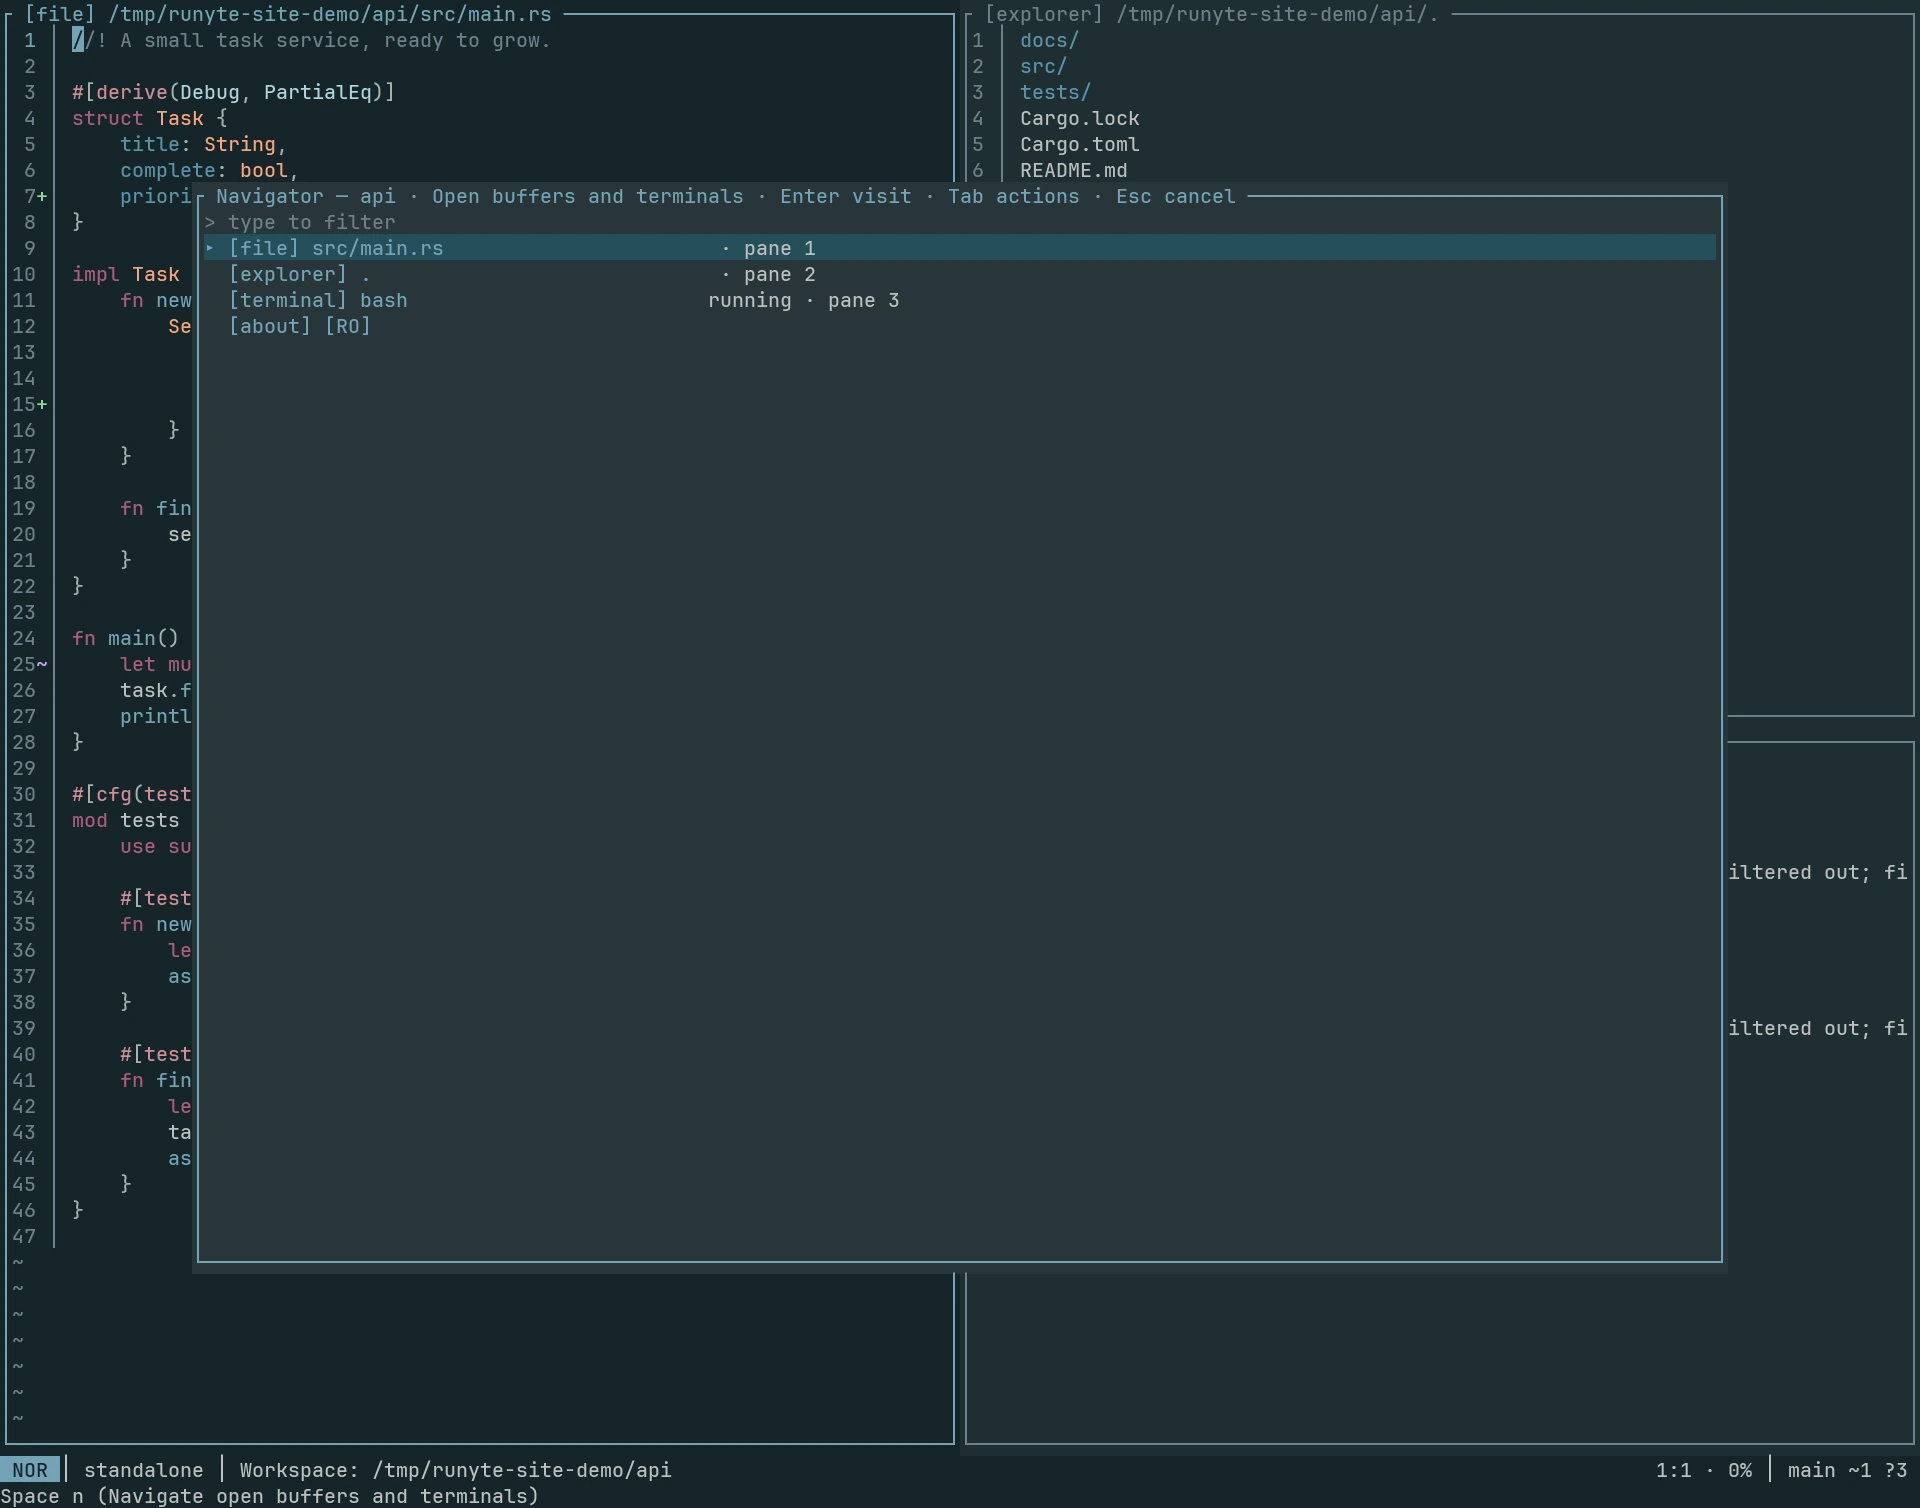
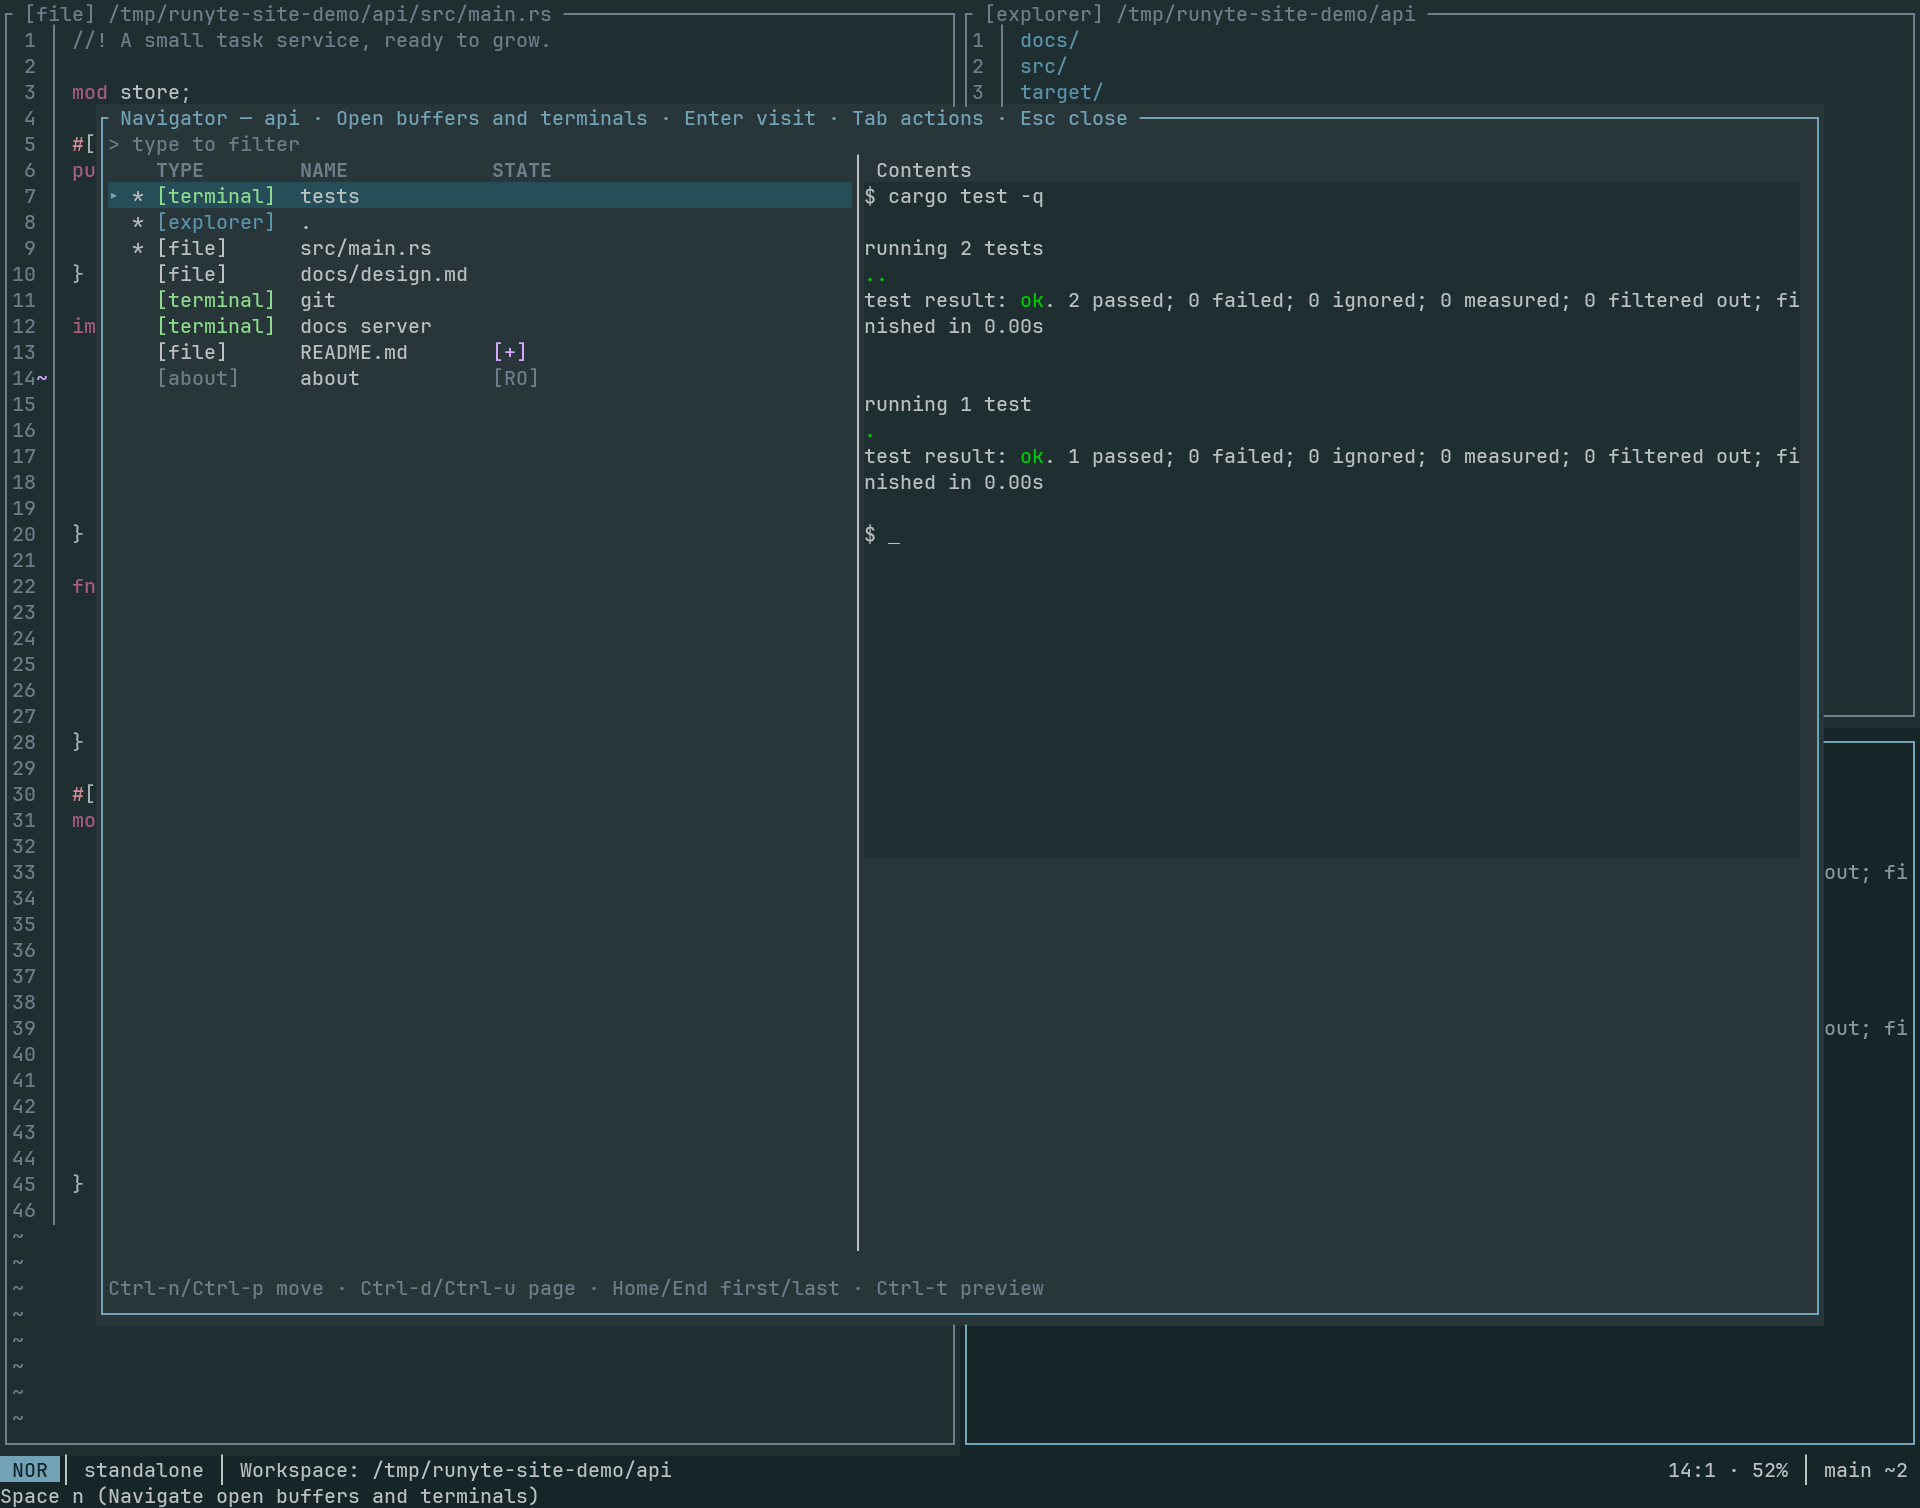
Recapture the Navigator screenshot for 0.3.3
The 0.3.3 Navigator lists TYPE, NAME and STATE columns beside a live
preview. The new capture shows files, the workspace explorer, About and
three running terminals, with the selected terminal's test output in the
preview. demos/navigator records the scene so it can be captured again.

diff --git a/demos/navigator/navigator.py b/demos/navigator/navigator.py
@@ -1,0 +1,192 @@
+#!/usr/bin/env python3
+# SPDX-License-Identifier: MPL-2.0
+"""Capture the Navigator listing files, an explorer, terminals and About."""
+import argparse
+import importlib.util
+import os
+from pathlib import Path
+import subprocess
+
+CARGO_TOML = '[package]\nname = "api"\nversion = "0.1.0"\nedition = "2021"\n\n[dependencies]\n'
+README = '# api\n\nA small task service, ready to grow.\n\nRun the tests with `cargo test`.\n'
+DESIGN = '# Design\n\nTasks are kept in memory and sorted by priority.\n'
+STORE = '''use crate::Task;
+
+pub struct Store {
+    tasks: Vec<Task>,
+}
+
+impl Store {
+    pub fn new() -> Self {
+        Self { tasks: Vec::new() }
+    }
+
+    pub fn add(&mut self, task: Task) {
+        self.tasks.push(task);
+        self.tasks.sort_by_key(|task| std::cmp::Reverse(task.priority));
+    }
+
+    pub fn pending(&self) -> impl Iterator<Item = &Task> {
+        self.tasks.iter().filter(|task| !task.complete)
+    }
+}
+'''
+MAIN = '''//! A small task service, ready to grow.
+
+mod store;
+
+#[derive(Debug, PartialEq)]
+pub struct Task {
+    pub title: String,
+    pub complete: bool,
+    pub priority: u8,
+}
+
+impl Task {
+    pub fn new(title: &str) -> Self {
+        Self { title: title.to_owned(), complete: false, priority: 0 }
+    }
+
+    pub fn finish(&mut self) {
+        self.complete = true;
+    }
+}
+
+fn main() {
+    let mut store = store::Store::new();
+    store.add(Task::new("Write the README"));
+    for task in store.pending() {
+        println!("{}", task.title);
+    }
+}
+
+#[cfg(test)]
+mod tests {
+    use super::*;
+
+    #[test]
+    fn new_task_is_open() {
+        assert!(!Task::new("Plan").complete);
+    }
+
+    #[test]
+    fn finish_marks_complete() {
+        let mut task = Task::new("Ship");
+        task.finish();
+        assert!(task.complete);
+    }
+}
+'''
+
+# Ctrl-\ returns control from a terminal child to Runyte.
+LEAVE_TERMINAL = [{'op': 'key', 'text': '\x1c'}, {'op': 'wait', 'wait': 0.3}]
+STEPS = [
+    {'op': 'wait', 'wait': 1.5},
+    {'op': 'command', 'text': 'about'},
+    # An unsaved edit shows the [+] state flag.
+    {'op': 'command', 'text': 'open README.md'},
+    {'op': 'key', 'text': 'ge'},
+    {'op': 'key', 'text': 'oTODO: document the HTTP endpoints.'},
+    {'op': 'wait', 'wait': 0.2},
+    {'op': 'key', 'text': '\x1b'},
+    {'op': 'wait', 'wait': 0.3},
+    {'op': 'command', 'text': 'open docs/design.md'},
+    # Two terminals that keep running after Space t q hides them.
+    {'op': 'command', 'text': 'terminal python3 -m http.server 8000 --bind 127.0.0.1 --directory docs'},
+    {'op': 'expect', 'text': 'Serving HTTP'},
+    *LEAVE_TERMINAL,
+    {'op': 'command', 'text': 'terminal-rename docs server'},
+    {'op': 'key', 'text': ' tq'},
+    {'op': 'command', 'text': 'terminal bash --norc --noprofile'},
+    {'op': 'wait', 'wait': 0.5},
+    {'op': 'key', 'text': 'git log --oneline\r'},
+    *LEAVE_TERMINAL,
+    {'op': 'command', 'text': 'terminal-rename git'},
+    {'op': 'key', 'text': ' tq'},
+    # Visible layout: file left, explorer top right, test terminal below it.
+    {'op': 'command', 'text': 'open src/main.rs'},
+    {'op': 'key', 'text': 'gg'},
+    {'op': 'key', 'text': '\x17v'},
+    {'op': 'key', 'text': ' E'},
+    {'op': 'key', 'text': '\x17s'},
+    {'op': 'command', 'text': 'terminal bash --norc --noprofile'},
+    {'op': 'wait', 'wait': 0.5},
+    {'op': 'key', 'text': 'cargo test -q\r'},
+    {'op': 'expect', 'text': 'test result', 'timeout': 60},
+    {'op': 'wait', 'wait': 0.5},
+    *LEAVE_TERMINAL,
+    {'op': 'command', 'text': 'terminal-rename tests'},
+    # Running the tests invalidates Git status; show a settled status line.
+    {'op': 'command', 'text': 'git-refresh'},
+    {'op': 'wait', 'wait': 2},
+    {'op': 'key', 'text': ' n'},
+    {'op': 'wait', 'wait': 0.8},
+]
+REQUIRED = ['Navigator', 'tests', 'git', 'docs server', '[explorer]', '[+]', '[about]', 'test result: ok']
+
+
+def git(workspace, *args):
+    subprocess.run(['git', '-c', 'user.name=Demo', '-c', 'user.email=demo@example.com', *args],
+                   cwd=workspace, check=True)
+
+
+def prepare(workspace):
+    for directory in ('src', 'tests', 'docs'):
+        (workspace/directory).mkdir(parents=True)
+    (workspace/'Cargo.toml').write_text(CARGO_TOML)
+    (workspace/'README.md').write_text(README)
+    (workspace/'docs/design.md').write_text(DESIGN)
+    (workspace/'src/store.rs').write_text(STORE)
+    (workspace/'src/main.rs').write_text(MAIN)
+    (workspace/'tests/store.rs').write_text('#[test]\nfn placeholder() {}\n')
+    (workspace/'.gitignore').write_text('/target\n.runyte/\n')
+    # Build first so the test run is quick and target/ exists before the explorer opens.
+    subprocess.run(['cargo', 'generate-lockfile', '--offline', '-q'], cwd=workspace, check=True)
+    subprocess.run(['cargo', 'test', '-q', '--no-run'], cwd=workspace, check=True,
+                   stderr=subprocess.DEVNULL)
+    git(workspace, 'init', '-q', '-b', 'main')
+    git(workspace, 'add', '-A')
+    git(workspace, 'commit', '-qm', 'Start the task service')
+    # Uncommitted changes for the gutter and the status line.
+    main = workspace/'src/main.rs'
+    main.write_text(main.read_text().replace('priority: 0 }', 'priority: 1 }'))
+    with (workspace/'README.md').open('a') as readme:
+        readme.write('\nSee docs/design.md for the data model.\n')
+
+
+def main():
+    p = argparse.ArgumentParser(description=__doc__)
+    p.add_argument('--skills-root', type=Path, required=True)
+    p.add_argument('--binary', type=Path, required=True)
+    p.add_argument('--font-dir', type=Path, required=True)
+    p.add_argument('--workspace', type=Path, required=True)
+    p.add_argument('--output', type=Path, required=True)
+    p.add_argument('--label', default='')
+    args = p.parse_args()
+    workspace = args.workspace.resolve()
+    if workspace.exists() and any(workspace.iterdir()):
+        raise SystemExit('Use an empty temporary workspace.')
+    prepare(workspace)
+    spec = importlib.util.spec_from_file_location(
+        'capture', args.skills_root/'runyte-screenshots/scripts/capture.py')
+    capture = importlib.util.module_from_spec(spec)
+    spec.loader.exec_module(capture)
+    # Terminals inherit this environment: a plain prompt keeps user and host names out of the image.
+    os.environ.update(PS1='$ ', HISTFILE='/dev/null')
+    fonts = args.font_dir
+    options = capture.parser().parse_args([
+        '--binary', str(args.binary.resolve()), '--cwd', str(workspace),
+        '--font', str(fonts/'JetBrainsMonoNerdFont-Medium.ttf'),
+        '--bold-font', str(fonts/'JetBrainsMonoNerdFontMono-Bold.ttf'),
+        '--italic-font', str(fonts/'JetBrainsMonoNerdFont-MediumItalic.ttf'),
+        '--bold-italic-font', str(fonts/'JetBrainsMonoNerdFontMono-BoldItalic.ttf'),
+        '--theme', 'terafox-soft', '--label', args.label, '--interactive',
+    ])
+    with capture.Capture(options) as session:
+        for step in STEPS:
+            session.action(step)
+        session.action({'op': 'save', 'path': str(args.output.resolve()), 'required': REQUIRED})
+
+
+if __name__ == '__main__':
+    main()

diff --git a/demos/navigator/README.md b/demos/navigator/README.md
@@ -1,0 +1,49 @@
+# Navigator screenshot
+
+`../../static/images/screenshots/navigator.webp` was captured from real Runyte
+0.3.3 (editor source `f310698`) on 27 September 2026. It uses terafox-soft,
+160 columns × 58 rows at 12×26 pixels (1920×1508), and JetBrainsMono Nerd Font
+Medium with bold/italic variants. The image is the editor's terminal output
+rendered by the editor repository's `runyte-screenshots` skill, not a desktop
+screenshot.
+
+`navigator.py` builds a small Cargo project named `api` in an empty workspace,
+commits it, and leaves uncommitted changes in `src/main.rs` and `README.md`.
+It opens About, adds an unsaved line to `README.md` so the row shows `[+]`,
+and opens `docs/design.md`. Two terminals keep running after `Space t q` hides
+them: `docs server` runs `python3 -m http.server` bound to 127.0.0.1, and `git`
+shows `git log`. The visible layout is `src/main.rs` on the left, the workspace
+explorer top right, and a `tests` terminal below it that has run `cargo test`.
+`Space n` then opens the Navigator with the `tests` terminal selected, so the
+preview shows its test output.
+
+Terminals start `bash --norc --noprofile` with `PS1='$ '`, so no user name,
+host name or personal shell setup reaches the image. The workspace path is
+visible in pane titles and the status line; use `/tmp/runyte-site-demo/api`
+to match the other gallery screenshots.
+
+To make a new take, build Runyte and install the skill's Python requirements.
+Python 3, Cargo and Git must be installed.
+
+```sh
+python3 -m venv /tmp/runyte-capture-venv
+/tmp/runyte-capture-venv/bin/pip install -r /path/to/runyte/skills/runyte-screenshots/scripts/requirements.txt
+/tmp/runyte-capture-venv/bin/python navigator.py \
+  --skills-root /path/to/runyte/skills \
+  --binary /path/to/runyte/target/release/runyte \
+  --font-dir /path/to/jetbrains-mono-nerd-fonts \
+  --workspace /tmp/runyte-site-demo/api \
+  --output /tmp/navigator.webp \
+  --label 'Runyte <version> (<revision>); Navigator scene'
+```
+
+The workspace must be empty or absent. The font directory must contain the
+four JetBrainsMono font files named by the script. The capture writes `.txt`
+and `.json` sidecars next to the image; they contain local paths, so keep them
+out of the repository. Open the image at full size and check the row states,
+the terminal preview and the absence of a `stale` Git marker in the status line.
+
+The editor README loads this image as
+`https://runyte.com/images/screenshots/navigator.webp?v=<hash>`, where `<hash>`
+is the first 12 hexadecimal characters of the file's SHA-256. Update it after
+replacing the image.

diff --git a/content/screenshots.md b/content/screenshots.md
@@ -29,7 +29,7 @@ Fonts follow your terminal settings.
 {{< screenshot
   src="images/screenshots/navigator.webp"
   theme="terafox-soft"
-  alt="Runyte 0.2.0 Navigator listing open buffers and running terminals."
+  alt="Runyte 0.3.3 Navigator listing files, an explorer, About, and running terminals, with a live terminal preview."
   caption="Jump between open buffers and terminals."
 >}}
 
